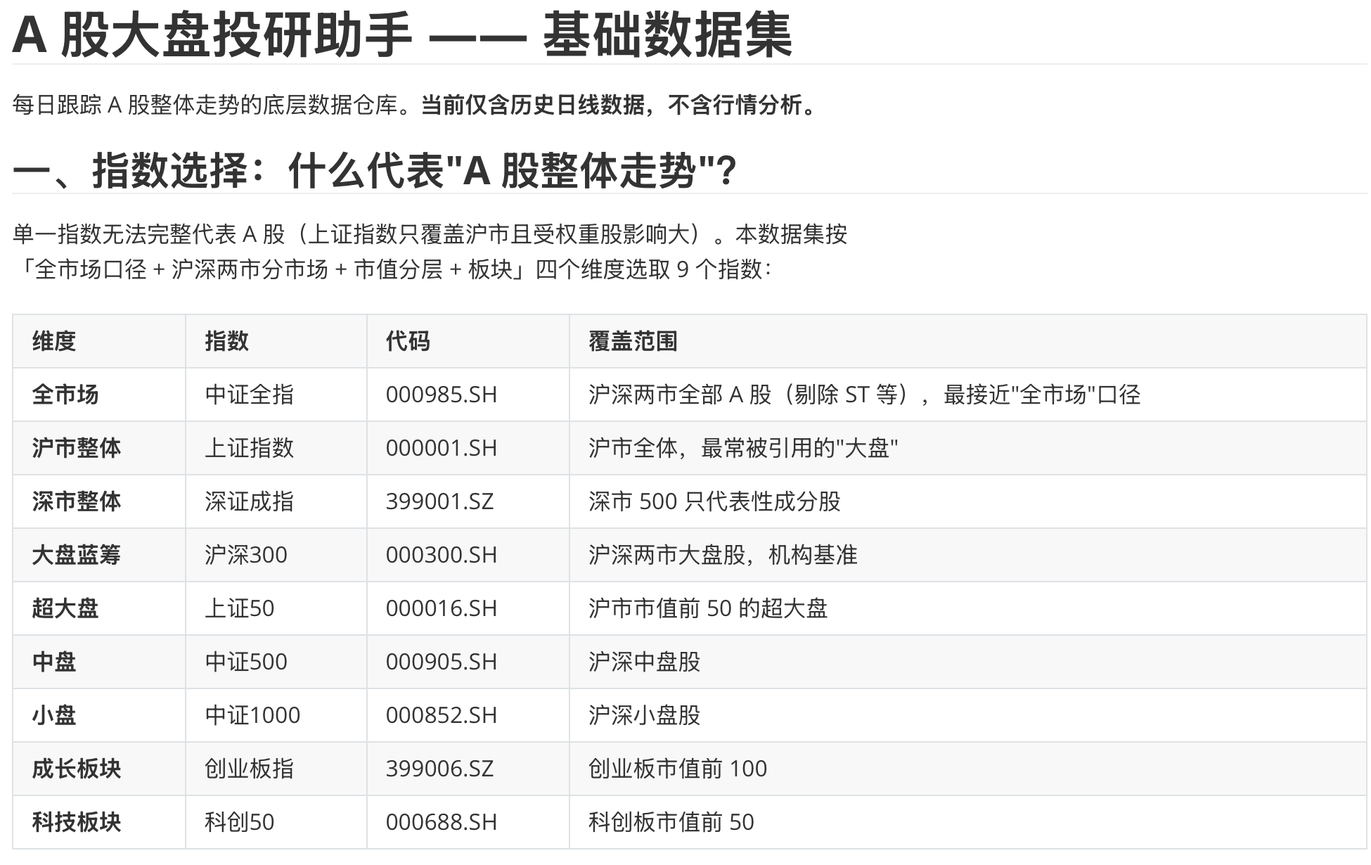
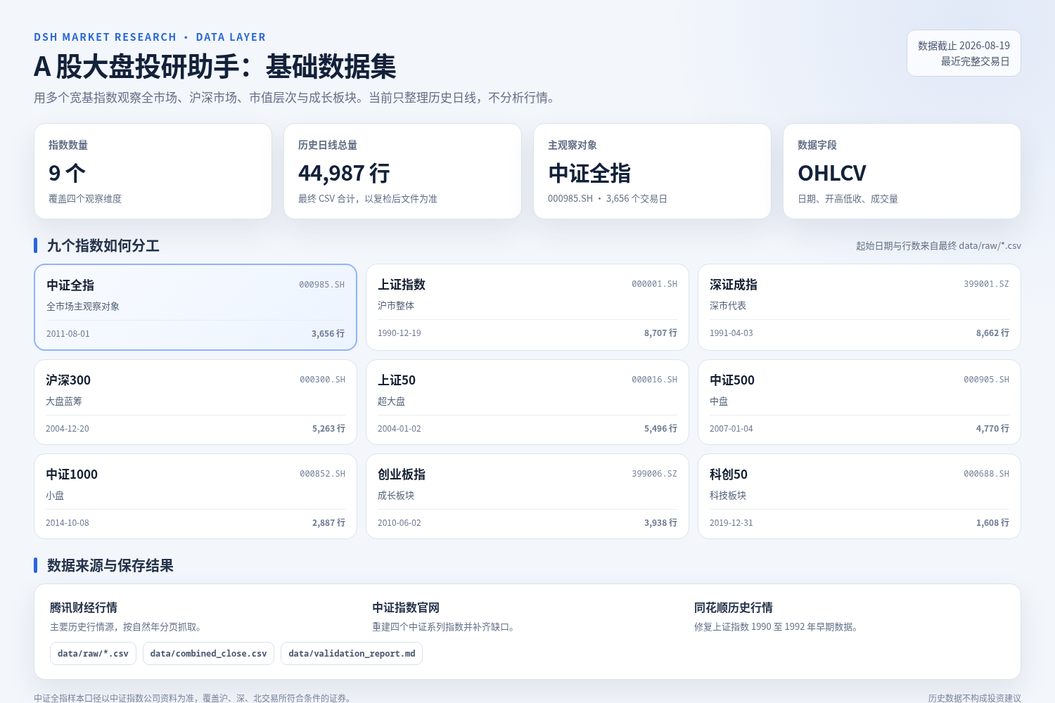
docs(ch8-9): refine walkthrough text and visuals

diff --git a/book/chapter9.md b/book/chapter9.md
@@ -1,209 +1,181 @@
 # 用 dsh 构建市场投研助手 {#ch-9}
 
-本章演示如何用 dsh 搭建一个可以手动每日运行、也能做临时定时监控的 A 股市场投研原型。我们先整理九个指数的历史日线，再把 20 日和 60 日均线写成明确规则，用历史数据检验这条规则。最后，dsh 会生成每日市场报告，并启动一次有停止时间的盘中监控。
+本章从一句普通的需求开始，让 dsh 整理 A 股市场数据，再把 20 日和 60 日均线写成规则，生成信号、回测和日报。完成这些基础工作后，我们把同一套研究流程用到通富微电和紫金矿业，得到一份带日 K 图、资金流向、板块对照和短期判断的个股报告。
 
-本次实测在 `a-share-research` 独立工作区内进行，全程使用标准模式。历史数据整理于 2026 年 8 月 19 日，盘中任务运行于 8 月 20 日。正文中的日期和数字都能在工作区文件或运行日志中找到。
+实测使用独立工作区 `a-share-research`，全程采用标准模式。历史数据整理于 2026 年 8 月 19 日，盘中任务运行于 8 月 20 日。工作区记录了 Python 3.9.6，实测材料没有保留 dsh Web 的准确版本号，正文不补写版本。最终产物分布在 `data/`、`signals/`、`backtest/` 和 `reports/`，所有日期与数字均来自现有文件或运行记录。
 
-这里讨论的是研究流程。行情来自公开接口，接口可能改版或中断；历史回测也不能说明未来表现。文中的信号只表示规则触发，不构成投资建议。
+行情接口会变化，历史数据也需要持续复核。本章中的趋势判断是基于既定条件的研究推断，不能替代投资决策。
 
 ## 接入并整理市场行情 {#sec-9-1}
 
 ### 用一句普通需求开始
 
-“A 股大盘”只是日常说法，无法直接下载成一条数据序列。上证指数知名度高，却只覆盖沪市；只看这一条，无法比较沪深两市、不同板块和市值层次的差异。本章先让 dsh 决定观察范围，再取数据，暂不做走势判断。
+“A 股大盘”并不对应一条唯一的数据序列。上证指数知名度高，但只反映沪市；若要观察整个市场，还要兼顾深市、不同市值层次和主要板块。
 
-新建文件夹 `a-share-research`，把它添加为工作区，在标准模式下新开会话。第一条消息不必写安装命令或指定数据接口，只说清目的、交付物和暂时不做什么。
+新建文件夹 `a-share-research`，将它添加为工作区，再在标准模式下新建会话。第一条消息不用指定安装命令和接口，只需说明目的、交付物与当前边界。
 
 ```text
 我想做一个每天跟踪 A 股大盘的投研助手。先帮我确定用哪些指数能够代表 A 股整体走势，再获取相应的历史日线并整理到当前工作区。请说明数据来源和最新日期，暂时不要分析行情。
 ```
 
-图 9-1 可以确认工作区和标准模式，第一条消息也没有预先指定数据接口。dsh 随后检查 Python 环境与已有依赖，再规划取数任务。
+先看图 9-1 左侧的工作区名称、顶部的标准模式，以及右侧的首条消息。这三处信息共同说明了任务从哪里开始。
 
 ![在标准模式下从一条简短需求开始](assets/chapter9/9-1-01-first-request.png){width=94%}
 
-dsh 从四个角度选择观察对象：全市场、沪深两市、市值层次和板块，最后保留中证全指、上证指数、深证成指、沪深 300、上证 50、中证 500、中证 1000、创业板指和科创 50。后面的信号规则以中证全指为主，其余八个指数用于日报中的横向观察。
+dsh 从全市场、沪深市场、市值层次和板块四个角度筛选观察对象，最终留下九个指数。后面的信号规则以中证全指为主，其余指数用于横向观察。为便于书中核对，图 9-2 根据最终 CSV 和复检报告重新排成结果卡，并非 dsh Web 原生页面。
 
-![九个指数覆盖全市场、分市场、市值层次和板块](assets/chapter9/9-1-02-index-universe.png){width=96%}
+![九个指数及最终历史数据范围](assets/chapter9/9-1-02-index-universe.png){width=96%}
 
-图 9-2 是 dsh 当时的初步分类，表中的“市值前 50”“市值前 100”等说法只是便于选择的简称，不能代替各指数的编制方案。其中，“中证全指覆盖沪深两市全部 A 股”已经不准确。中证指数公司 2026 年 4 月 30 日的[指数资料](https://oss-ch.csindex.com.cn/static/html/csindex/public/uploads/indices/detail/files/zh_CN/000985factsheet.pdf)写明，样本空间包括上交所、深交所和北交所符合条件的股票与存托凭证。本章仍用中证全指观察广泛市场表现，涉及样本范围时以指数公司当期文件为准。
+中证全指是本章的主要观察对象。中证指数公司 2026 年 4 月 30 日的[指数资料](https://oss-ch.csindex.com.cn/static/html/csindex/public/uploads/indices/detail/files/zh_CN/000985factsheet.pdf)显示，其样本空间包括上交所、深交所和北交所符合条件的股票与存托凭证。北证 50 因本次接口没有返回历史数据而未单列，万得全 A 属于付费数据，也没有用相似代码代替。
 
-指数选得多，也要逐项核对。北证 50 因本次所用接口没有返回历史数据而未单列，万得全 A 属于付费数据，也没有用一个相似代码代替。书中只采用这次实际得到的九个指数。
+### 让 dsh 处理依赖和接口故障
 
-第一条提示词用于让 dsh 提出观察范围，不能保证每次都得到同一组接口和指数。确认方案后，应把指数名称、代码和字段写进下一条消息，并要求 dsh 先报告异常，得到批准后再修数据。本次实测没有提前限制修复权限，后面因此出现了一次未经单独确认的数据修改。
+工作区起初是空的，Python 环境也没有 pandas、requests 和 akshare。dsh 创建虚拟环境并安装依赖。取数时，akshare 的指数映射请求失败，东方财富接口随后多次连接失败。它转而使用能够访问的数据源，并把获取与修补步骤保存成脚本。
 
-### 让 dsh 处理环境和接口故障
+本次日线主源是腾讯财经。1990 至 1992 年的上证指数异常段使用同花顺数据替换，四个中证系列指数则使用中证指数官网数据补齐或重建；新浪财经只用于近期数据抽查。九份 `data/raw/*.csv` 的字段统一为 `date、open、high、low、close、volume`，`data/combined_close.csv` 保存按日期对齐的收盘价。
 
-工作区一开始是空的，系统 Python 版本为 3.9.6，也没有 pandas、requests 和 akshare。dsh 创建虚拟环境并安装依赖。取数时，akshare 的指数映射请求失败，东方财富接口也多次出现连接问题。dsh 随后改用能够访问的数据源，并保存了可重复执行的脚本。
+当前九份 CSV 合计 44,987 行，最新日期为 2026 年 8 月 19 日。中证全指有 3,656 行。早期日志和元数据仍写着 3,654 行，说明修补数据后没有同步更新这些摘要文件。正文采用当前 CSV 与复检报告的数字，也保留这处差异，提醒读者不要只看旧日志。
 
-本次使用的数据源如下。
+### 再做一次只读检查
 
-- 主源是腾讯财经历史行情接口，按自然年分页取数。
-- 1990 至 1992 年的上证指数异常段用同花顺数据替换，深证成指的早期记录也由同花顺补充。
-- 沪深 300、中证 500、中证 1000 和中证全指使用中证指数官网数据补齐或重建。
-- 新浪财经只用于最近数据的交叉抽查。
-
-取数和早期修补记录写进 `README.md`、`data/fetch_log.json` 和修补脚本。最后生成九份 `data/raw/*.csv`，字段统一为 `date、open、high、low、close、volume`，成交量单位统一为手；`data/combined_close.csv` 则把九个指数的收盘价按日期对齐。
-
-四个中证系列指数改用官网数据重建后，`README.md`、`data/fetch_log.json` 和 `data/index_meta.csv` 没有同步更新，其中仍把中证全指写成 3,654 行。当前 CSV 与复检报告均为 3,656 行，九份文件合计 44,987 行，最新日期为 2026 年 8 月 19 日。下面统一采用当前 CSV 和复检报告的数字。
-
-- 上证指数 `000001.SH`：1990-12-19 起，共 8,707 行；深证成指 `399001.SZ`：1991-04-03 起，共 8,662 行。
-- 沪深 300 `000300.SH`：2004-12-20 起，共 5,263 行；中证 500 `000905.SH`：2007-01-04 起，共 4,770 行。
-- 中证 1000 `000852.SH`：2014-10-08 起，共 2,887 行；中证全指 `000985.SH`：2011-08-01 起，共 3,656 行。
-- 创业板指 `399006.SZ`：2010-06-02 起，共 3,938 行；科创 50 `000688.SH`：2019-12-31 起，共 1,608 行。
-- 上证 50 `000016.SH`：2004-01-02 起，共 5,496 行。
-
-### 再次检查数据
-
-第一轮取数结束时，dsh 曾说数据已经通过完整性检查。这个结论下得太早。我们继续发了一条很短的检查要求，让它把日期、数值和 OHLC 关系逐项写进报告。这里漏写了“先报告，不要修改数据”。
+第一轮取数结束时，dsh 已经声称数据通过完整性检查。我们没有直接进入分析，而是继续追问：
 
 ```text
 帮我检查一下刚获取的行情数据，看看日期和数值有没有重复、缺失或明显异常，并把检查结果保存下来。先不要分析走势。
 ```
 
-这次 dsh 检查后直接修了数据。这个过程不宜照搬：处理自己的行情文件时，应当先生成只读检查报告，核对修复来源和范围，再单独批准修改。
-
-检查发现了几组问题。2015 年 3 月 27 日，八个指数的 low 字段与 high 字段相同，且与交叉来源不符；中证全指在 2018 年 8 月 3 日至 24 日连续 16 个交易日出现同一个收盘值 4666.50；2018 年 10 月 23 日和 24 日还少了两条记录。dsh 用同花顺和中证指数官网交叉核对后修复数据，并把四个中证系列指数改用官网历史数据重建。
-
-修复动作已经发生，接下来停止写入数据，只整理问题、修复动作和复检依据。我们补发下面这条要求。
+这条提示漏写了“先报告，不要修改数据”。dsh 在检查后直接修复了文件。处理正式数据时，更稳妥的顺序是先出只读报告，核对问题与来源，再批准修改。本次已经发生写入，只能停止后续修改并重新整理证据：
 
 ```text
-报告里有些历史原因没有注明来源。请重新整理检查报告，只保留数据能够直接证明的结论；需要解释原因的地方补充可核验来源，否则标成“无法核验”。把“发现的问题、采取的修复、修复后的复检结果”分开写清楚，不要再修改数据。
+报告里有些历史原因没有注明来源。请重新整理检查报告，只保留数据能够直接证明的结论；需要解释原因的地方补充可核验来源，否则标成“无法核验”。另外把“发现的问题、采取的修复、修复后的复检结果”分开写清楚，不要再修改数据。
 ```
 
-复检后，OHLC 逻辑矛盾从 53 条降为 0，2015 年 3 月 27 日的八处高低价异常降为 0，中证全指缺少的两条记录也已经补齐。图中只截取了这三项指标，完整细节保存在 `data/validation_report.md` 和 `data/validation_results.json`。
+检查发现，2015 年 3 月 27 日有八个指数的最低价误填为最高价；中证全指在 2018 年 8 月 3 日至 24 日连续 16 个交易日出现相同收盘值 4666.50，另缺少 2018 年 10 月 23 日和 24 日两条记录。dsh 用同花顺与中证指数官网交叉核对后完成修复。图 9-3 同样是根据 `data/validation_report.md` 整理的核对卡，只保留修复前后的三组主要数字。
 
-![数据修复前后的三项关键指标](assets/chapter9/9-1-03-validation-results.png){width=96%}
+![行情数据修复后的复检结果](assets/chapter9/9-1-03-validation-results.png){width=96%}
 
-复检仍有解释不了的记录。[深证成指官方资料](https://www.cnindex.com.cn/docs/jj_399001.pdf)给出的基日是 1994 年 7 月 20 日，本次数据源却提供了 1991 年至 1994 年 7 月 19 日的延伸数据。以同期上证指数日期集作参照，这段深证数据少了 18 个日期，同时包含 45 条周六记录和 54 行 OHLC 全等记录。这些现象可以从文件中直接数出，却不能证明当时的深市交易安排，也无法说明延伸数据怎样生成。复核报告把原因标成“无法核验”，没有继续修改。后面的主规则使用 2011 年开始的中证全指，不依赖这段早期数据。
+复检后，OHLC 逻辑矛盾从 53 条降为 0，2015 年 3 月 27 日的八处异常降为 0，中证全指缺少的两条记录也已补齐。主规则所用的中证全指通过了复检。
+
+深证成指的早期数据仍有边界问题。其[官方资料](https://www.cnindex.com.cn/docs/jj_399001.pdf)给出的基日是 1994 年 7 月 20 日，本次来源却提供了 1991 年至基日前的延伸记录。文件中可以数出 18 个日期差异、45 条周六记录和 54 行 OHLC 全等记录，但无法由数据本身解释生成方式，复检报告因此标为“无法核验”。后面的主规则从 2011 年的中证全指开始，不使用这段早期记录。
 
 ## 把分析方法变成信号规则 {#sec-9-2}
 
-行情文件整理好以后，先选一条简单方法。这里用中证全指的 20 日和 60 日均线观察趋势。原始想法只有一句话：短期均线上穿长期均线记为向上信号，下穿记为向下信号。它还缺少均线类型、窗口边界、等号处理和检验范围，直接写代码会把这些未说明的选择藏进实现里。
-
-继续在同一会话里发送：
+行情准备好以后，先选一条容易复核的方法。本章用中证全指的 20 日和 60 日均线观察趋势。原始想法只有“上穿”和“下穿”，还缺均线类型、窗口边界、等号处理与检验区间。把这些选择留给代码，会让规则难以复现。
 
 ```text
 接下来以中证全指作为主要观察对象。我想用 20 日和 60 日均线判断趋势，短期均线上穿长期均线记为向上信号，下穿记为向下信号。先不要写代码，帮我把这条想法变成可以历史检验的明确规则。如果还有适合日线数据的辅助分析方法，也列出来供我选择，但不要直接混进这条规则。有需要我决定的细节直接问我。
 ```
 
-dsh 接着在界面里提出四个问题。第一题让用户在 SMA、EMA 和两套并行之间选择，其余三题确认统计口径、是否过滤信号和历史区间。这样的选择会改变信号日期和数量，应在运行前留下一份决定记录。
+dsh 随后用界面询问均线类型、统计口径、是否过滤信号和历史区间。图 9-4 记录的是第一项选择。均线类型一旦改变，信号日期也会变化，因此需要由用户明确确认。
 
-![dsh 通过界面确认均线计算方式](assets/chapter9/9-2-01-rule-choice.png){width=86%}
+![由用户确认采用简单移动平均 SMA](assets/chapter9/9-2-01-rule-choice.png){width=86%}
 
-本次选择是简单移动平均 SMA、不过滤任何穿越、使用全部历史，先统计信号和状态，不在规则定义阶段计算收益。dsh 把选择和规则保存为 `docs/ma20_60_trend_rule.md`。图中能够看到规则适用的数据范围和四项决定。
+本次选择 SMA、不过滤穿越、使用全部历史，并先统计信号和状态。dsh 将规则保存到 `docs/ma20_60_trend_rule.md`。图 9-5 根据该文件整理，便于集中核对公式与四项决定。
 
-![规则文件保存用户确认的四项决定](assets/chapter9/9-2-02-rule-specification.png){width=96%}
+![从规则文件整理出的 20/60 日均线核对卡](assets/chapter9/9-2-02-rule-specification.png){width=96%}
 
-规则定稿后，关键条款可以压缩成下面五条。
+规则的三个边界尤其重要。MA60 需要 60 个交易日，第 60 日只确定初始状态；MA20 与 MA60 相等时不算穿越；金叉要求前一日 `MA20 <= MA60` 且当日 `MA20 > MA60`，死叉反向判断。辅助指标只列作候选，没有混进主规则。
 
-1. MA20 是当日及之前 19 个交易日收盘价的算术平均，MA60 同理。
-2. 前 59 个交易日没有完整 MA60，不产生信号；第 60 个交易日只记录初始状态。
-3. 当日 MA20 大于 MA60，且前一日 MA20 小于或等于 MA60，记为金叉。
-4. 当日 MA20 小于 MA60，且前一日 MA20 大于或等于 MA60，记为死叉。
-5. 两条均线相等时不记穿越，保持此前状态。
-
-辅助方法只被列作候选，没有混入这条规则。后面的结果因此只对应 20/60 日均线。
-
-规则文件的 R9 还预写了“将来采用交易口径时按 T+1 开盘执行”，实际回测后来选择了 T+1 收盘。信号日期没有因此改变，执行价却属于另一套假设。这次工作区没有回头覆盖 R9，下面的数字以回测报告记录的 T+1 收盘口径为准。这是现有产物的一处未同步，自己复现时应在回测前发送下面的修正要求。
-
-```text
-请修正 docs/ma20_60_trend_rule.md：规则文件只定义信号日期，删除 R9 中预设的 T+1 开盘执行价。成交时点和价格另写在回测报告的假设部分，后续按我确认的口径执行。其他规则不变。
-```
+规则文件的 R9 曾预写“将来按 T+1 开盘执行”，后面的回测实际采用 T+1 收盘。信号日期不受影响，成交价假设却不一致。现有实测没有回头修改规则文件，下面的结果统一以回测报告中的 T+1 收盘口径为准。读者复现时，应把信号定义与成交假设分开保存。
 
 ### 生成信号清单和图
 
-规则文件落地后，再让 dsh 编码。提示词保持简短，文件名和交付结果说清即可。
+规则定稿后，再让 dsh 编码：
 
 ```text
-就按刚才定下的主规则实现，先不加入其他辅助指标。生成全部历史信号清单，再画一张最近三年的走势图，标出中证全指、MA20、MA60 和信号点，保存到 signals 目录。完成后告诉我信号总数、当前状态和最近五次信号。只描述规则结果，不给投资建议。
+就按刚才定下的主规则实现，先不加入其他辅助指标。生成全部历史信号清单，再画一张最近三年的走势图，标出中证全指、MA20、MA60和信号点，保存到 signals 目录。完成后告诉我信号总数、当前状态和最近五次信号。只描述规则结果，不给投资建议。
 ```
 
-脚本 `scripts/signal_ma20_60.py` 生成了 `signals/signal_history.csv`、`signals/summary.txt` 和最近三年信号图。检验区间从 2011 年 10 月 31 日到 2026 年 8 月 19 日，共 3,597 个交易日，得到 72 个信号，其中金叉和死叉各 36 次。最近三年的图中有 7 个金叉和 8 个死叉。
+`scripts/signal_ma20_60.py` 生成 `signals/signal_history.csv`、`signals/summary.txt` 和最近三年的信号图。检验区间为 2011 年 10 月 31 日至 2026 年 8 月 19 日，共 3,597 个交易日，产生 72 个信号，金叉与死叉各 36 次。最近三年的图中有 7 个金叉和 8 个死叉。
 
-![最近三年的中证全指、两条均线和信号点](assets/chapter9/9-2-03-signal-chart.png){width=96%}
+![最近三年的中证全指、均线和穿越信号](assets/chapter9/9-2-03-signal-chart.png){width=96%}
 
-图上的三角形只是穿越发生的位置。价格快速反向时，移动平均线会滞后；均线靠近时，也可能在较短间隔内反复穿越。看到信号点落在一段上涨或下跌附近，还不能判断规则是否有效，收益和风险要用下一节的统一口径计算。
+三角形只标出均线穿越。均线存在滞后，靠得很近时还可能连续反转。图看起来“抓住了趋势”，不等于规则可以盈利，下一步必须用统一口径检验。
 
 ## 用历史数据检验信号 {#sec-9-3}
 
-信号日期已经固定，回测还需要单独定义成交时点和比较基准。本次只做多头：金叉后的次日收盘进入，死叉后的次日收盘退出；空仓收益设为 0，不计交易成本和滑点。策略与同期持续持有中证全指都从第一个完整 MA60 交易日开始，初始净值统一设为 1。
+本次回测只做多头。金叉后的次日收盘进入，死叉后的次日收盘退出，其余时间空仓，不计成本和滑点。发送的原始提示词如下：
 
 ```text
-现在用历史数据检验这套信号。评估从第一个完整 MA60 交易日开始，策略和同期持续持有中证全指的基准净值都设为 1。
-
-策略只做多头。向上信号后从次日收盘开始模拟持有，向下信号后从次日收盘结束，其余时间空仓，空仓收益为 0，不计成本和滑点。请统计期末净值、年化收益率、上涨段占比和最大回撤，生成回测报告及净值曲线，保存到 backtest 目录，并说明结果的局限。
+现在用历史数据检验这套信号。向上信号后从次日收盘开始模拟持有，向下信号后从次日收盘结束，其他时间空仓，不计成本和滑点。请和同期持续跟踪中证全指比较，统计累计净值、上涨段占比和最大回撤，生成回测报告和净值曲线，保存到 backtest 目录，并说明结果的局限。
 ```
 
-第一次报告把“上涨段占比”算成了持仓期间上涨交易日的比例。这个定义与我们要看的完整持有区间胜率不同。模糊指标会给出精确数字，却可能答非所问，因此要马上纠正口径。
+第一次报告把“上涨段占比”算成持仓期间上涨交易日的比例。这里需要的是完整持有区间中，收益为正的区间占比。一个词的歧义足以改变指标含义，因此立即补发：
 
 ```text
-请把“上涨段占比”改成每个完整持有区间收益为正的比例。此前按持仓期间上涨交易日比例算出的数字作废。补算持有段数、正收益段数和占比，并列出收益最差的三段，更新报告和结果汇总。其他回测假设保持不变。
+我说的“上涨段占比”是每个完整持有区间收益为正的比例，不是持仓期间上涨交易日的比例。请按这个口径补算持有段数、正收益段数和占比，并列出收益最差的三段，更新报告和结果汇总。其他回测假设保持不变。
 ```
 
-修正后的结果并不好看。36 个完整持有区间中只有 12 个取得正收益，段胜率为 33.3%。策略期末净值是 0.9186，年化收益率为 -0.57%，最大回撤为 -59.82%；同期持续持有的期末净值是 1.8857，年化收益率为 4.40%，最大回撤为 -57.85%。这套参数在本次样本里没有跑赢基准，回撤也没有改善。
+图 9-7 是根据修正后的 `backtest/backtest_report.md` 与 `results_summary.md` 整理的结果卡。36 个完整持有区间中，只有 12 个取得正收益，段胜率为 33.3%。策略期末净值为 0.9186，年化收益率为 -0.57%，最大回撤为 -59.82%；同期持续持有的期末净值为 1.8857，年化收益率为 4.40%，最大回撤为 -57.85%。
 
-![修正口径后的回测结果和最差三段](assets/chapter9/9-3-01-backtest-summary.png){width=82%}
+![双均线回测的主要指标与最差三段](assets/chapter9/9-3-01-backtest-summary.png){width=86%}
 
-净值曲线把差距显示得更清楚。红线只在多头状态持有，空仓时保持水平；蓝线持续跟踪指数。2016 年以后，策略净值大部分时间在 1 附近徘徊，到样本末端低于起点，而基准仍高于起点。
+净值曲线更直观。红线只在规则处于多头状态时持有，空仓期间保持水平；蓝线持续跟踪指数。样本末端，策略净值低于起点，也落后于基准。
 
-![双均线策略与同期持续持有的净值曲线](assets/chapter9/9-3-02-nav-curve.png){width=96%}
+![双均线策略与持续持有的净值曲线](assets/chapter9/9-3-02-nav-curve.png){width=96%}
 
-报告还列出收益最差的三段：2013 年 5 月 22 日至 6 月 28 日为 -14.67%，2015 年 11 月 4 日至 2016 年 1 月 14 日为 -12.31%，2018 年 1 月 23 日至 2 月 12 日为 -11.35%。这里只能确认价格与均线在这些区间给出了亏损持有段；没有补充来源时，不用宏观事件解释亏损原因。
-
-这份回测有六项边界，需要和结果放在一起读。
-
-- 中证全指是一条指数序列，报告中的净值不能直接兑现。使用 ETF 等工具跟踪时，还会出现跟踪误差和流动性限制。
-- 回测没有计入交易费用、滑点和冲击成本，实际成本取决于所用工具。正成本会继续压低策略净收益。
-- 信号在收盘后确认，次日收盘才执行，包含一个交易日的滞后。
-- 空仓资金收益按 0 处理，也没有止损、仓位控制等风控规则。
-- 样本只有一个指数、一组参数和 36 个完整持有段，没有做样本外检验或参数稳健性检查。
-- 历史数据经过多源修补，早期回测段仍有数据口径限制；历史表现不能外推到未来。
+这个结果说明，规则清楚、代码可运行，还不足以证明策略有效。报告中的限制必须和收益数字一起保留：中证全指无法直接交易；回测未计交易成本、滑点和冲击成本；信号确认到执行存在一个交易日的滞后；空仓收益按 0 计算；样本只有一个指数、一组参数和 36 个完整持有段；历史数据经过多源修补，也没有进行样本外检验。历史结果不能外推到未来。
 
 ## 定时监控并生成分析报告 {#sec-9-4}
 
-前三节留下了数据、规则和检验结果。接下来把每日重复动作固化为 `scripts/daily_report.py`：更新九个指数的历史日线，汇总最新表现，再计算中证全指的 MA20、MA60、当前状态和最近信号，报告写入 `reports/`。
+### 先把日报的数据边界守住
+
+前三节已经留下数据、规则与检验结果。接下来把每日动作固化为 `scripts/daily_report.py`，由它更新历史日线、汇总九个指数，再计算中证全指的 MA20、MA60、状态与最近信号。
 
 ```text
 把每天的例行动作固定成 daily_report.py：更新现有行情，汇总九个指数的最新表现，再按已经确定的规则计算中证全指的 MA20、MA60 和当前信号状态，在 reports 目录生成当天的分析报告。先手动运行一次，把报告全文给我看。没有新交易日就如实说明，只写数据事实和规则结果，不给操作建议。
 ```
 
-### 先修正盘中数据边界
-
-第一次手动运行发生在 2026 年 8 月 19 日晚，报告正常使用当天收盘。第二天 10:42 再运行时，接口已经返回 8 月 20 日的盘中数值，脚本却把它写进日线文件并标成“收盘”。同一天内多次运行，数值还会随盘中行情变化。这是会污染均线和回测的错误，必须在设置定时任务前处理。
+第一次手动运行发生在 8 月 19 日晚，报告正常采用当天收盘。8 月 20 日 10:42 再运行时，接口已返回盘中数值，脚本却把它写入日线文件并称作“收盘”。同一天连续运行，数值还会继续变化。若不清理，这些盘中记录会进入均线和回测。
 
 ```text
-现在这份报告把盘中价当成了收盘价。请按北京时间判断，收盘前运行时忽略当天尚未完成的日线，只使用最近一个完整交易日；收盘后才更新当天数据。清理刚写入的 2026-08-20 盘中记录，恢复相关数据和汇总文件，然后重新运行日报，生成时间注明北京时间。
+现在这份报告把盘中价当成了收盘价。请按北京时间判断，收盘前运行时忽略当天尚未完成的日线，只使用最近一个完整交易日；收盘后才更新当天数据。清理刚写入的 2026-08-20 盘中记录，恢复相关数据和汇总文件，并撤销刚才对 fetch_index_daily.py 的改动。然后重新运行日报，生成时间注明北京时间。
 ```
 
-dsh 删除了九份 CSV 中误写入的 8 月 20 日记录，并修改日报脚本。北京时间 15:00 前运行时，请求窗口截止到前一天；15:00 后才允许请求当天数据。10:55 重跑后，报告明确写出 A 股尚未收盘，最新完整交易日仍是 8 月 19 日，本次没有新增交易日。
+dsh 删除九份 CSV 中的 8 月 20 日盘中记录并重跑日报。图 9-9 根据修正后的 `reports/2026-08-20.md` 整理。北京时间 10:55，报告明确写出当天尚未收盘，计算仍截止 8 月 19 日。
 
-![日报在盘中运行时只使用最近完整交易日](assets/chapter9/9-4-01-daily-cutoff.png){width=82%}
+![日报在盘中只采用最近完整交易日](assets/chapter9/9-4-01-daily-cutoff.png){width=88%}
 
-修正后的 `reports/2026-08-20.md` 汇总了九个指数截至 8 月 19 日的收盘和涨跌幅。中证全指收盘为 5846.42，MA20 为 5855.56，MA60 为 6135.65，规则状态为空头，最近一次信号是 2026 年 7 月 15 日死叉，距报告所用数据 25 个交易日。报告只写数据事实和规则结果。
+中证全指在 8 月 19 日收于 5846.42，MA20 为 5855.56，MA60 为 6135.65，规则状态为空头。15:00 前排除当天记录解决了本次污染；收盘后仍要核对接口返回日期和更新时间，不能仅凭钟点认定数据已经稳定。
 
-15:00 这个边界挡住了本次盘中数据污染，却不能证明上游接口已经完成日线更新。长期运行时，还要检查接口返回的交易日期，并给收盘后的数据更新留出延迟时间。
+### 验证一次临时定时监控
 
-### 先手动刷新，再启动临时进程
-
-日报使用完整日线，盘中观察则走另一条只读路径。启动临时进程前，先发一条手动刷新要求。
+日报只使用完整日线。为了确认盘中读取不会改写这些文件，我们先做一次只读刷新。下面是实测时发送的原始提示词：
 
 ```text
-先手动查询一次九个指数的盘中行情和中证全指分时数据，保存一张分时图。这里只读取实时接口，不要写入日线文件，也不要据此生成正式日线信号。完成后报告数据时间和文件路径。
+刷新一下今天 A 股大盘的盘中行情，告诉我九个指数目前的涨跌情况，并画一张中证全指今天的分时图保存下来。注明北京时间和数据来源。
 ```
 
-11:01 的查询确认实时接口与分钟接口都能返回结果，11:02 的分时图保存到 `reports/intraday_000985_20260820.png`，九份日线 CSV 的最新日期仍是 8 月 19 日。满足这三个条件后，再启动临时进程。
-
-手动刷新通过后，让 dsh 写出并启动一个有明确停止时间的临时监控进程。下面保留本次实测使用的 11:30；照着操作时，要把它换成北京时间的未来时刻，并至少留出两轮刷新时间。
+dsh 返回九个指数的实时快照，并保存中证全指分时图。结果说明本次查询没有写入 `data/raw/`，盘中变化也没有判定为正式日线信号。随后启动一个有明确结束时间的后台进程：
 
 ```text
-请创建一个临时盯盘任务：从现在起到今天 11:30，每隔 5 分钟刷新九个指数的盘中行情，更新中证全指分时图，并生成一份带北京时间的简短分析报告。每次结果分别保存到 reports/intraday，不要写入日线数据，也不要把盘中变化判定为正式日线信号。11:30 后停止运行，并告诉我任务配置、日志位置和清理方法。
+请创建一个临时盯盘任务：从现在起到今天 11:30，每隔 5 分钟通过 headless 模式刷新九个指数的盘中行情，更新中证全指分时图，并生成一份带北京时间的简短分析报告。每次结果分别保存到 reports/intraday，不要写入日线数据，也不要把盘中变化判定为正式日线信号。11:30 后停止运行，并告诉我任务配置、日志位置和清理方法。
 ```
 
-dsh 写出 `scripts/intraday_monitor.py`，用纯 API 请求和 Matplotlib 的无界面绘图后端运行。11:06 的第一轮报告记录了北京时间、数据源和九个指数的盘中数值，也明确写出盘中变化不进入正式日线信号。
+脚本 `scripts/intraday_monitor.py` 使用纯 API 请求和 Matplotlib 的 Agg 后端运行。日志显示五轮快照按计划生成，时间分别为 11:06、11:10、11:15、11:20 和 11:24，11:30 到达停止条件。图 9-10 根据快照文件和日志整理，只保留时间线与关键边界。
 
-![临时任务生成的第一份九指数盘中报告](assets/chapter9/9-4-02-intraday-snapshot.png){width=96%}
+![临时监控按计划生成五轮快照并到点停止](assets/chapter9/9-4-02-intraday-monitor.png){width=88%}
 
-这项任务随后在没有手动刷新的情况下继续运行。第一轮在 11:06 启动，脚本随后对齐到整五分钟，日志记录了 11:10、11:15、11:20 和 11:24 四轮。最后一轮在 11:24:59 启动，文件名因此使用 `1124`；11:30:00 到达停止条件。每轮各保存一份 Markdown 报告和一张分时图，九份日线 CSV 的最新日期仍是 8 月 19 日。
+这里的 headless 仅指 Python 脚本不打开浏览器窗口并用无界面后端绘图。这次实测没有验证 dsh Web 的 schedule 提醒、dsh CLI 的 headless profile，也没有配置系统 cron。五轮文件只能证明会话中启动的后台进程连续运行并按时停止。长期无人值守还需要另测调度、失败重试和告警。
 
-这里的“无界面”指 Python 脚本直接请求接口并用 Agg 后端绘图。它是在 dsh 会话中启动的后台进程，没有验证 dsh CLI 的 headless profile、Web schedule 插件或系统 cron。`reports/intraday/` 中的五轮快照和日志里的 11:30 停止记录，只证明这段临时进程连续运行了约 24 分钟。进程到点后自行退出，没有留下长期调度；日报目前也要手动启动。长期无人值守还要另行测试系统调度、失败重试和日志告警。
+### 把市场监控延伸为个股分析
+
+只列九个指数，适合验证数据流程，却很难回答读者最关心的“这些信息怎样用于具体研究”。因此保留前面的指数基准，再把两只不同板块的股票放进同一份报告：
+
+```text
+前面的指数分析保留。现在比较通富微电（002156）和紫金矿业（601899）：直接查询两只股票近一年的日 K 行情、成交量和资金流向，结合所属板块走势以及可核验的近期公告和新闻，生成一份近期走势对比报告。注明数据来源、统计口径和北京时间。
+```
+
+dsh 先生成 `reports/stock_compare_002156_601899_20260820.md`，补充指标后另存为 `stock_compare_002156_601899_20260820_v2.md`。第二版加入大盘、行业指数、ETF、5/20/60/120 日涨跌、MA20/MA60、MACD、RSI、ATR 和成交量变化。个股日 K 与成交额来自腾讯财经，资金流采用新浪财经口径，行业指数来自中证指数官网，公告和新闻逐条保留链接。所有计算截止 2026 年 8 月 19 日收盘，不含 8 月 20 日盘中数据。
+
+原报告信息较多，Markdown 截图不利于印刷阅读。图 9-11 和图 9-12 将已经核验的字段重新排成两张结果卡，没有补入新的行情事实。第一张先给结论，再列趋势、板块、资金、量能与风险；第二张回到两只股票的日 K 与均线位置。
+
+![两只股票的短期判断及条件](assets/chapter9/9-4-03-stock-analysis-overview.png){width=96%}
+
+结果卡把通富微电概括为“短期震荡”。截至 8 月 19 日，收盘价 63.59 低于 MA20 的 63.71 和 MA60 的 67.05，近 20 日下跌 15.10%，半导体指数同期也下跌 9.47%；业绩预增与 AMD 合作报道提供正面信息，但 ATR 占收盘价 8.4%，波动很高。只有放量站上 MA60 并重新形成金叉，才满足报告中的转强条件。
+
+紫金矿业的结果卡写为“短期上涨趋势”。依据是 20/60 日均线仍处于多头状态，收盘价 32.76 高于 MA60 的 30.02 和 MA120 的 31.96，所属有色指数与 ETF 近 20 日分别上涨 5.50% 和 5.43%，个股近 20 日资金净流入 10.84 亿元。若价格跌破近 20 日低点 30.97 或 MA60，这一判断随即失效。
+
+![两只股票最近约 120 个交易日的日 K 与均线](assets/chapter9/9-4-04-stock-analysis-charts.png){width=96%}
+
+“震荡”和“上涨趋势”都是未来 5 至 20 个交易日的条件推断，表达的是当前证据倾向，不是确定预测。每个新交易日结束后都要重新取数、复算指标，并检查公告来源。到这里，工作区已经能够从市场基准、规则检验一路生成具体标的的研究报告；它仍是研究原型，网页结果卡只呈现已核验产物，不提供交易操作建议。
